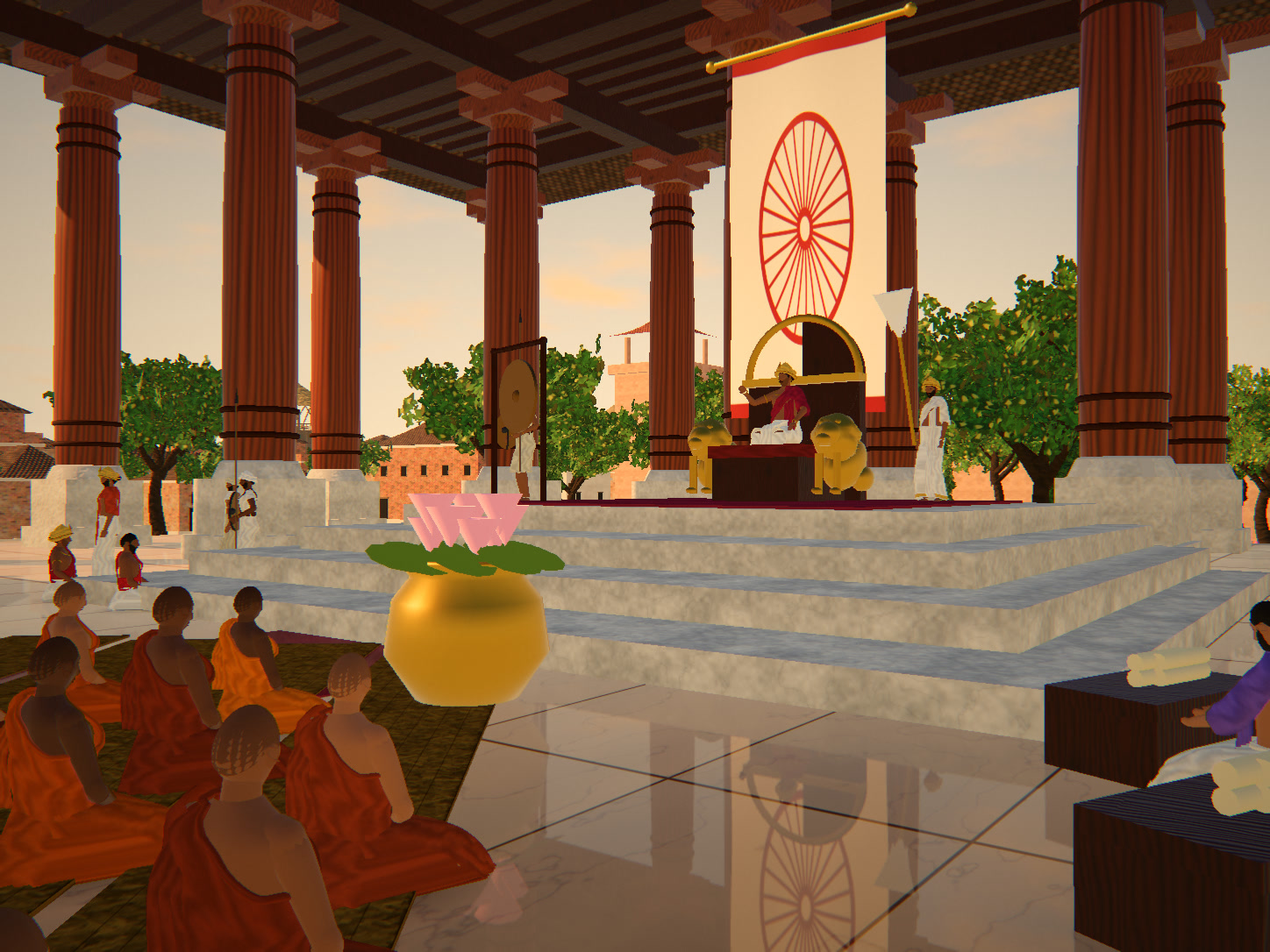
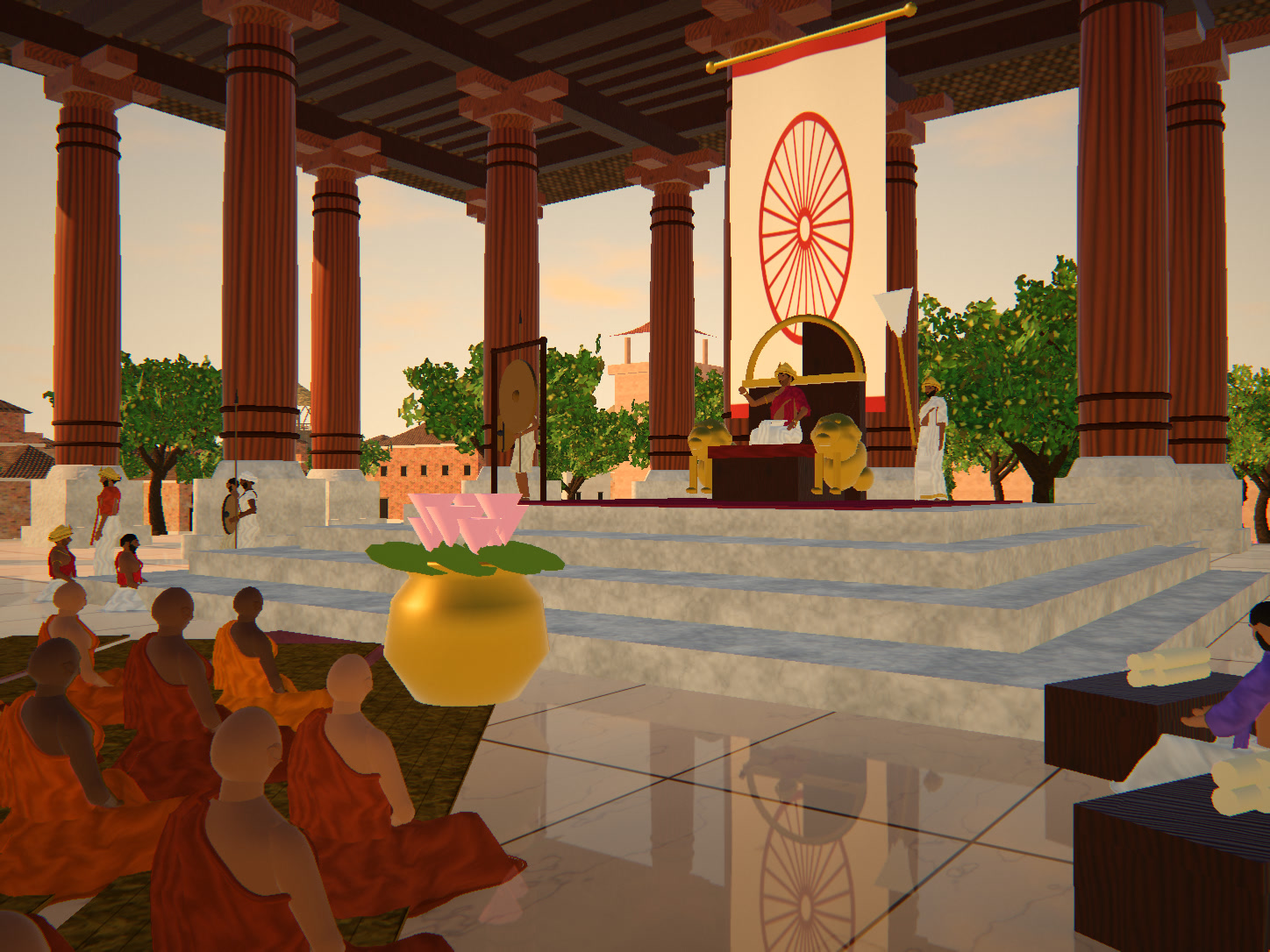
Round 15: new procedural people (anatomy, faces, hair, turbans, real drapery) integrated; full round rendered
Claude-Session: https://claude.ai/code/session_0162mTPdSB4sTmVTjs86gVkC

diff --git a/src/assets.js b/src/assets.js
@@ -159,7 +159,7 @@ function keyInterp(K, y) {
   return o;
 }
 // torso key rings relative to hip-joint height: [y, half width, front depth, back depth, z shift]
-const TK_M = [[-0.13, 0.095, 0.065, 0.08, -0.01], [-0.07, 0.146, 0.09, 0.11, -0.012], [0.02, 0.16, 0.094, 0.112, -0.006], [0.1, 0.15, 0.094, 0.095, 0], [0.18, 0.138, 0.098, 0.084, 0], [0.28, 0.148, 0.104, 0.09, 0], [0.37, 0.163, 0.114, 0.096, 0.004], [0.44, 0.174, 0.108, 0.1, 0], [0.49, 0.166, 0.084, 0.094, -0.01], [0.535, 0.115, 0.062, 0.072, -0.016], [0.575, 0.056, 0.05, 0.054, -0.012]];
+const TK_M = [[-0.13, 0.095, 0.065, 0.08, -0.01], [-0.07, 0.146, 0.09, 0.11, -0.012], [0.02, 0.16, 0.094, 0.112, -0.006], [0.1, 0.15, 0.094, 0.095, 0], [0.18, 0.138, 0.098, 0.084, 0], [0.28, 0.148, 0.104, 0.09, 0], [0.37, 0.163, 0.114, 0.096, 0.004], [0.44, 0.172, 0.108, 0.1, 0], [0.49, 0.158, 0.084, 0.094, -0.01], [0.535, 0.108, 0.062, 0.072, -0.016], [0.575, 0.056, 0.05, 0.054, -0.012]];
 const TK_F = [[-0.13, 0.1, 0.07, 0.088, -0.012], [-0.07, 0.158, 0.094, 0.122, -0.014], [0.02, 0.166, 0.094, 0.115, -0.008], [0.1, 0.142, 0.09, 0.09, 0], [0.19, 0.12, 0.085, 0.076, 0], [0.28, 0.132, 0.09, 0.08, 0], [0.37, 0.142, 0.098, 0.086, 0.004], [0.44, 0.15, 0.094, 0.088, 0], [0.49, 0.146, 0.078, 0.085, -0.01], [0.53, 0.104, 0.058, 0.068, -0.014], [0.565, 0.05, 0.045, 0.049, -0.012]];
 function torsoRel(B, th, y, off = 0) {
   const k = keyInterp(B.K, y); const a = k[0] * B.bw, bf = k[1] + B.belly * gss(y - 0.15, 0.08), bb = k[2], dz = k[3];
@@ -169,7 +169,7 @@ function torsoRel(B, th, y, off = 0) {
   const ax = Math.abs(x), front = Math.max(0, c), back = Math.max(0, -c);
   let push = 0;
   if (B.fem) push += B.bust * gss(ax - 0.068, 0.036) * gss(y - 0.36, 0.038) * front;
-  else push += 0.013 * gss(ax - 0.068, 0.045) * gss(y - 0.415, 0.032) * front * B.musc - 0.005 * gss(x, 0.012) * gss(y - 0.25, 0.12) * front;
+  else push += (0.017 * gss(ax - 0.066, 0.045) * gss(y - 0.415, 0.03) - 0.006 * gss(x, 0.01) * gss(y - 0.4, 0.06)) * front * B.musc - 0.005 * gss(x, 0.012) * gss(y - 0.25, 0.12) * front + 0.004 * gss(ax - 0.035, 0.02) * gss(y - 0.27, 0.05) * front * B.musc - 0.004 * gss(x, 0.006) * gss(y - 0.19, 0.008) * front;
   push += 0.008 * gss(ax - 0.075, 0.04) * gss(y - 0.43, 0.05) * back - 0.007 * gss(x, 0.016) * sstep(0.04, 0.16, y) * sstep(0.56, 0.44, y) * back;
   push += 0.006 * gss(y - 0.512, 0.012) * gss(ax - 0.06, 0.035) * front;
   const r = push + off; const nx = s / Math.max(a, 0.01), nz = c / Math.max(c > 0 ? bf : bb, 0.01); const nl = Math.hypot(nx, nz) || 1;
@@ -180,16 +180,16 @@ const HA = (u) => { const w = 2 * u - 1; return Math.PI * (0.45 * w + 0.55 * w *
 const HP = (v) => 0.001 + (Math.PI - 0.002) * (v + 0.1 * Math.sin(2 * Math.PI * v)); // polar, dense at the face
 function headPt(H, a, pol, off = 0) {
   const sp = Math.sin(pol), x = Math.sin(a) * sp, y = Math.cos(pol), z = Math.cos(a) * sp;
-  const ra = 0.074 * H.w, rb = 0.113, rc = z > 0 ? 0.092 : 0.102;
+  const ra = 0.077 * H.w, rb = 0.11, rc = z > 0 ? 0.094 : 0.104;
   let X = x * ra, Y = y * rb, Z = z * rc;
   const low = sstep(0.0, -0.105, Y);
-  X *= 1 - low * (0.3 - 0.12 * H.jaw);
+  X *= (1 - low * (0.26 - 0.1 * H.jaw)) * (1 + 0.05 * gss(Y - 0.035, 0.04));
   if (z < 0) Z *= 1 - 0.5 * sstep(-0.02, -0.1, Y);
   if (z > 0) { Z -= 0.03 * x * x * z; Z *= 1 - 0.12 * low; }
   if (Y > 0.02) Z -= 0.006 * sstep(0.02, 0.1, Y) * z; // forehead slopes back
   if (z > 0.2) {
     const fx = X, fy = Y, ax = Math.abs(fx); let dz = 0;
-    dz -= 0.0105 * gss(ax - 0.031, 0.013) * gss(fy - 0.01, 0.0105); // eye sockets
+    dz -= 0.012 * gss(ax - 0.031, 0.013) * gss(fy - 0.01, 0.0105); // eye sockets
     dz += 0.006 * gss(fy - 0.031, 0.008) * gss(fx, 0.035) * H.brow; // brow ridge
     const nt = sstep(0.028, -0.033, fy);
     let nA = 0; if (fy < 0.03 && fy > -0.05) nA = (0.003 + 0.021 * nt * nt) * (fy < -0.033 ? sstep(-0.047, -0.033, fy) : 1);
@@ -211,32 +211,33 @@ const BEARDTOP = [[0, 2.36], [0.22, 2.3], [0.42, 2.02], [0.8, 1.78], [1.2, 1.62]
 function buildHead(type, r, pose) {
   const hb = new AB(); const fem = type === 'woman';
   const H = { w: fem ? 0.95 : 0.98 + r() * 0.06, jaw: fem ? 0.2 : 0.5 + r() * 0.5, nose: 0.85 + r() * 0.35, chin: fem ? 0.8 : 0.9 + r() * 0.4, brow: fem ? 0.6 : 1 + r() * 0.3, lips: fem ? 1.2 : 1 };
-  hb.add(surf((u, v) => headPt(H, HA(u), HP(v)), 48, 36, { closeU: true, flip: true }), 'skin');
+  hb.add(surf((u, v) => headPt(H, HA(u), HP(v)), 40, 30, { closeU: true, flip: true }), 'skin');
   // eyes, lids, lips, ears
+  const brows = type !== 'monk' || r() < 0.5;
   for (const side of [-1, 1]) {
     const pe = new V3(...headPt(H, side * 0.37, 1.462)); const ne = new V3(side * 0.25, 0.08, 1).normalize();
-    hb.add(sph(0.0115, 10, 8), 'eye', pe.clone().addScaledVector(ne, -0.0085).toArray());
-    const lid = new THREE.SphereGeometry(0.0128, 10, 5, 0, Math.PI * 2, 0, Math.PI * 0.52); hb.add(lid, 'skin', pe.clone().addScaledVector(ne, -0.0082).toArray(), [0.35, side * 0.25, 0]);
-    const ep = new V3(...headPt(H, side * 1.66, 1.6, 0.002));
+    const eye = sph(0.0115, 10, 8); eye.scale(1.3, 0.75, 1); hb.add(eye, 'eye', pe.clone().addScaledVector(ne, -0.0078).toArray(), [0, side * 0.3, 0]);
+    if (brows) hb.add(tubeSurf([0.17, 0.32, 0.47, 0.6].map((a, i) => headPt(H, side * a, 1.25 + i * i * 0.012, 0.0015)), (v) => (fem ? 0.0022 : 0.003) * (1 - 0.5 * v), 5, 8), 'hair');
+    const ep = new V3(...headPt(H, side * 1.62, 1.6, 0.002));
     const ear = sph(1, 10, 8); ear.scale(0.009, 0.031, 0.02); hb.add(ear, 'skin', ep.toArray(), [0, side * 0.35, -side * 0.08]);
     const rim = new THREE.TorusGeometry(0.019, 0.0045, 5, 12, Math.PI * 1.3); rim.scale(0.7, 1.4, 1); hb.add(rim, 'skin', ep.clone().add(new V3(side * 0.006, 0.004, -0.003)).toArray(), [0, side * Math.PI / 2 + side * 0.35, Math.PI * 0.35]);
     if (fem || type === 'noble') hb.add(sph(0.009, 8, 6), 'gold', ep.clone().add(new V3(side * 0.006, -0.036, 0)).toArray());
   }
-  const ul = sph(1, 12, 6); ul.scale(0.019, 0.0045, 0.006); hb.add(ul, 'lips', headPt(H, 0, 2.08, -0.0015));
-  const ll = sph(1, 12, 6); ll.scale(0.017, 0.0055, 0.006); hb.add(ll, 'lips', headPt(H, 0, 2.2, -0.0018));
+  const ul = sph(1, 12, 6); ul.scale(0.0175, 0.0035, 0.005); hb.add(ul, 'lips', headPt(H, 0, 2.09, -0.003));
+  const ll = sph(1, 12, 6); ll.scale(0.016, 0.0045, 0.005); hb.add(ll, 'lips', headPt(H, 0, 2.2, -0.003));
   // hair
   const hairShell = (lineFn, th, key, nu = 40, nv = 14, extra = null) => hb.add(surf((u, v) => {
-    const a = HA(u), pm = lineFn(a); const pol = 0.001 + v * (pm - 0.001);
+    const a = (u - 0.5) * 2 * Math.PI, pm = lineFn(a); const pol = 0.001 + v * (pm - 0.001);
     let t = th(v, a); const p = headPt(H, a, pol, t); if (extra) extra(p, a, v); return p;
   }, nu, nv, { closeU: true, flip: true, uS: 2, vS: 2 }), key);
   const hl = (a) => pwl(HAIRLINE, Math.abs(a));
   const style = type === 'monk' ? 'shaved' : fem ? 'bun' : type === 'scribe' ? (r() < 0.7 ? 'topknot' : 'short') : type === 'noble' ? 'long' : ['short', 'short', 'topknot', 'long', 'curly'][Math.floor(r() * 5)];
-  if (style === 'shaved') hairShell(hl, () => 0.0012, 'stubble', 36, 12);
+  if (style === 'shaved') { if (r() < 0.4) hairShell(hl, () => 0.0022, 'stubble', 44, 12); }
   else {
     const thick = style === 'curly' ? 0.012 : style === 'short' ? 0.007 : 0.009;
     const crv = style === 'curly' ? r() * 10 : 0;
     hairShell((a) => hl(a) + (fem || style === 'long' ? 0.06 + 0.12 * sstep(1.2, 2.6, Math.abs(a)) : 0), (v, a) => thick * (0.3 + 0.7 * sstep(1, 0.55, v)) * (fem ? 1.2 : 1),
-      'hair', 40, 14, (p, a, v) => {
+      'hair', 36, 12, (p, a, v) => {
         if (crv) { const k = 1 + 0.06 * Math.sin(p[0] * 160 + crv) * Math.sin(p[1] * 150) * Math.sin(p[2] * 170); p[0] *= k; p[1] *= k; p[2] *= k; }
         if (fem || style === 'long') { const part = gss(p[0], 0.004) * sstep(-0.02, 0.06, p[2]) * 0.004; p[1] -= part; }
       });
@@ -261,12 +262,12 @@ function buildHead(type, r, pose) {
   if (turban) {
     const big = type === 'noble' ? 1.25 : type === 'soldier' ? 0.9 : 1 + r() * 0.2;
     const tl = (a) => mix(1.2, 1.62, sstep(0.3, 2.6, Math.abs(a)));
-    hb.add(surf((u, v) => { const a = HA(u); const pol = 0.001 + v * (tl(a) - 0.001); const p = headPt(H, a, pol, 0.018 + 0.02 * big * (1 - v)); p[1] += 0.028 * big * (1 - v) * (1 - v); return p; }, 36, 12, { closeU: true, flip: true, uS: 3, vS: 2 }), 'accent');
-    const nb = type === 'soldier' ? 3 : 4 + (r() < 0.5 ? 1 : 0);
+    hb.add(surf((u, v) => { const a = (u - 0.5) * 2 * Math.PI; const pol = 0.001 + v * (tl(a) - 0.001); const p = headPt(H, a, pol, 0.018 + 0.02 * big * (1 - v)); p[1] += 0.028 * big * (1 - v) * (1 - v); return p; }, 36, 12, { closeU: true, flip: true, uS: 3, vS: 2 }), 'accent');
+    const nb = type === 'soldier' ? 3 : 4;
     for (let k = 0; k < nb; k++) {
       const sgn = k % 2 ? 1 : -1, tilt = (0.12 + r() * 0.08) * sgn, base = k / nb;
       const pts = []; for (let i = 0; i < 24; i++) { const a = -Math.PI + i / 24 * Math.PI * 2; const pol = tl(a) - 0.06 - base * mix(0.85, 0.55, sstep(0, 2.6, Math.abs(a))) + tilt * Math.sin(a); const p = headPt(H, a, Math.max(0.25, pol), 0.022 + 0.01 * big); p[1] += 0.01 * base * big; pts.push(p); }
-      hb.add(tubeSurf(pts, (v, d, u) => 0.016 + 0.004 * Math.sin(v * 37 + k), 8, 40, { closed: true, uS: 1, vS: 6 }), 'accent');
+      hb.add(tubeSurf(pts, (v, d, u) => 0.016 + 0.004 * Math.sin(v * 37 + k), 6, 28, { closed: true, uS: 1, vS: 6 }), 'accent');
     }
     if (type === 'noble') {
       const pts = []; for (let i = 0; i < 24; i++) { const a = -Math.PI + i / 24 * Math.PI * 2; pts.push(headPt(H, a, tl(a) - 0.05, 0.05)); }
@@ -329,7 +330,7 @@ export function human({ type = 'man', pose = 'stand', seed = 1, h = 1.7 } = {}) 
   for (const L of legs) {
     const H0 = toV(L.hip), K = toV(L.knee), A = toV(L.ankle);
     const pts = [H0.clone().add(new V3(-L.side * 0.02, 0.07, -0.01)), H0, H0.clone().lerp(K, 0.82), K, K.clone().lerp(A, 0.18), A];
-    if (!sit) b.add(tubeSurf(pts, (v) => legR(v), 12, 22), 'skin');
+    if (!sit) b.add(tubeSurf(pts, (v) => legR(v), 10, 20), 'skin');
     else b.add(tubeSurf([K.clone().lerp(A, 0.3), A], () => 0.042, 8, 4), 'skin');
     // foot
     let F, U = [0, 1, 0], o;
@@ -342,11 +343,11 @@ export function human({ type = 'man', pose = 'stand', seed = 1, h = 1.7 } = {}) 
   }
   // ---------------- torso
   const TP = (th, y, off = 0) => { const p = torsoRel(B, th, y, off); p[1] += hipJ; return p; };
-  b.add(surf((u, v) => TP((u - 0.5) * 2 * Math.PI, mix(-0.13, 0.575, v)), 32, 26, { closeU: true }), 'skin');
+  b.add(surf((u, v) => TP((u - 0.5) * 2 * Math.PI, mix(-0.13, 0.575, v)), 28, 22, { closeU: true }), 'skin');
   // ---------------- arms
-  const shY = hipJ + 0.485, shX = torsoRel(B, Math.PI / 2, 0.47)[0] - 0.032;
+  const shY = hipJ + 0.475, shX = torsoRel(B, Math.PI / 2, 0.45)[0] - 0.03;
   const armL1 = fem ? 0.27 : 0.285, armL2 = fem ? 0.24 : 0.255;
-  const holdShawl = !seated && type !== 'soldier' && r() < 0.18 ? (r() < 0.5 ? -1 : 1) : 0;
+  const longSk = type === 'monk' || fem || type === 'noble';
   const armPose = (side) => {
     const S = [side * shX, shY, -0.012];
     if (throne && side === -1) return { W: [-0.36, shY + 0.02, 0.36], pole: [-1, -1, -0.3], pn: [0.2, 0.3, 1], fd: null };
@@ -356,9 +357,8 @@ export function human({ type = 'man', pose = 'stand', seed = 1, h = 1.7 } = {}) 
     if (sit) return { W: [side * 0.3, hipJ + 0.12, 0.25], pole: [side, -0.2, -1], pn: [0, -1, 0] };
     if (type === 'soldier' && side === 1) return { W: [0.25, shY - 0.33, 0.16], pole: [1, -0.5, -1], pn: [-1, 0, 0] };
     if (type === 'soldier') return { W: [-0.27, shY - 0.36, 0.12], pole: [-1, -0.3, -1], pn: [-1, 0, 0] };
-    if (holdShawl === side) return { W: [side * 0.05, shY - 0.2, 0.15], pole: [side, -1, -0.2], pn: [0, 0, -1] };
     const a = pose === 'walk' ? -side * sw * 1.0 : (r() - 0.5) * 0.12;
-    const ln = 0.52; return { W: [side * (shX + 0.05), shY - ln * Math.cos(a), ln * Math.sin(a) + 0.05], pole: [side * 0.4, 0, -1], pn: [-side, 0, 0] };
+    const ln = 0.52; return { W: [side * (shX + (fem ? 0.12 : longSk ? 0.09 : 0.06)), shY - ln * Math.cos(a), ln * Math.sin(a) + (longSk ? 0.08 : 0.05)], pole: [side * 0.4, 0, -1], pn: [-side, 0, 0] };
   };
   const arms = [];
   for (const side of [-1, 1]) {
@@ -366,9 +366,9 @@ export function human({ type = 'man', pose = 'stand', seed = 1, h = 1.7 } = {}) 
     const [E, W] = ik(S, ap.W, armL1, armL2, ap.pole);
     arms.push({ side, S, E, W });
     const k = fem ? 0.84 : (type === 'soldier' ? 1.08 : 1);
-    const pts = [S.clone().add(new V3(-side * 0.035, 0.012, 0)), S, S.clone().lerp(E, 0.85), E, E.clone().lerp(W, 0.15), W];
-    b.add(tubeSurf(pts, (v) => k * pwl([[0, 0.05], [0.12, 0.054], [0.3, 0.046], [0.5, 0.036], [0.6, 0.04], [0.82, 0.03], [1, 0.025]], v), 12, 22), 'skin');
-    const dl = sph(1, 12, 8); dl.scale(0.05 * k, 0.058 * k, 0.052 * k); b.add(dl, 'skin', S.clone().add(new V3(side * 0.012, -0.005, 0)).toArray());
+    const ud = E.clone().sub(S).normalize(); const pts = [S.clone().addScaledVector(ud, -0.035).add(new V3(-side * 0.012, 0, 0)), S, S.clone().lerp(E, 0.78), E, E.clone().lerp(W, 0.22), W];
+    b.add(sph(0.03 * k, 10, 8), 'skin', pts[0].clone().add(new V3(-side * 0.012, -0.004, 0)).toArray());
+    b.add(tubeSurf(pts, (v) => k * pwl([[0, 0.032], [0.05, 0.048], [0.1, 0.054], [0.17, 0.053], [0.32, 0.045], [0.5, 0.036], [0.6, 0.04], [0.82, 0.03], [1, 0.025]], v), 11, 22), 'skin');
     const fd = W.clone().sub(E).normalize();
     const hm = basisM(W, fd, toV(ap.pn)); const hand = buildHand(side, fem);
     for (const g of hand.parts.skin) b.addM(g, 'skin', hm);
@@ -376,13 +376,13 @@ export function human({ type = 'man', pose = 'stand', seed = 1, h = 1.7 } = {}) 
     if (type === 'noble' || (fem && r() < 0.5)) { const d2 = E.clone().sub(S).normalize(); b.addM(new THREE.TorusGeometry(0.047 * k, 0.008, 6, 16), 'gold', new THREE.Matrix4().compose(S.clone().lerp(E, 0.45), new THREE.Quaternion().setFromUnitVectors(new V3(0, 0, 1), d2), new V3(1, 1, 1))); }
     if (type === 'soldier' && side === 1) { b.add(cyl(0.012, 0.012, 2.3, 6), 'pole', [W.x, W.y + 0.55, W.z + 0.03]); b.add(new THREE.ConeGeometry(0.028, 0.24, 6), 'iron', [W.x, W.y + 1.82, W.z + 0.03]); }
     if (type === 'soldier' && side === -1) {
-      const shd = lathe([[0, 0.05], [0.08, 0.045], [0.2, 0.025], [0.29, 0.0], [0.3, -0.01], [0, -0.01]], 28); const c = W.clone().add(new V3(-0.07, 0.1, 0.04));
+      const shd = lathe([[0, 0.05], [0.08, 0.045], [0.2, 0.025], [0.29, 0.0], [0.3, -0.01], [0, -0.01]], 28); const c = W.clone().add(new V3(-0.03, 0.06, 0.13));
       b.add(shd, 'prop', c.toArray(), [Math.PI / 2, 0, -0.35]); b.add(new THREE.TorusGeometry(0.295, 0.016, 6, 28), 'iron', c.toArray(), [0, -0.35, 0]); b.add(sph(0.05, 10, 6), 'iron', c.clone().add(new V3(0.02, 0, 0.05)).toArray());
     }
   }
   // ---------------- neck & head
   const HC = new V3(0, hipJ + 0.68, 0.016 + (sit && type === 'scribe' ? 0.04 : 0));
-  b.add(tubeSurf([[0, hipJ + 0.48, -0.016], [0, hipJ + 0.57, -0.006], [0, HC.y - 0.03, HC.z - 0.012]], (v) => mix(0.056, 0.047, v) * (fem ? 0.9 : 1), 12, 6), 'skin');
+  b.add(tubeSurf([[0, hipJ + 0.44, -0.018], [0, hipJ + 0.56, -0.006], [0, HC.y - 0.03, HC.z - 0.012]], (v) => pwl([[0, 0.075], [0.3, 0.064], [0.45, 0.056], [1, 0.047]], v) * (fem ? 0.9 : 1), 14, 10), 'skin');
   const pitch = sit && type === 'scribe' ? 0.38 : type === 'monk' && sit ? 0.12 : (r() - 0.5) * 0.14, yaw = throne ? -0.25 : (r() - 0.5) * 0.4;
   b.merge(buildHead(type, r, pose), HC.toArray(), [pitch, yaw, 0]);
   // ---------------- garments
@@ -404,19 +404,19 @@ export function human({ type = 'man', pose = 'stand', seed = 1, h = 1.7 } = {}) 
     const tp = torsoRel(B, th, Math.max(yR, -0.13), off);
     let best = -1e9, hx = 0, hz = 0;
     for (const L of legs) { const c = legAt(L, yA); const pr = c[0] * dx + c[1] * dz + c[2]; if (pr > best) { best = pr; hx = c[0] + dx * (c[2] + off); hz = c[1] + dz * (c[2] + off); } }
-    const w = sstep(-0.02, -0.15, yR);
+    let w = sstep(-0.02, -0.15, yR); const prT = tp[0] * dx + tp[2] * dz, prH = hx * dx + hz * dz; if (prH > prT) w = Math.max(w, clamp01((prH - prT) / 0.015)); else if (yR > -0.13) w = Math.min(w, 1 - clamp01((prT - prH) / 0.015));
     return [mix(tp[0], hx, w), yA, mix(tp[2], hz, w)];
   };
-  const skirt = (key, o, nu = 64, nv = 26) => b.add(surf((u, v) => skirtPt((u - 0.5) * 2 * Math.PI, v, o), nu, nv, { closeU: true, flip: true, uS: 3, vS: 3 }), key);
+  const skirt = (key, o, nu = 56, nv = 22) => b.add(surf((u, v) => skirtPt((u - 0.5) * 2 * Math.PI, v, o), nu, nv, { closeU: true, flip: true, uS: 3, vS: 3 }), key);
   const border = (key, o, frac = 0.07) => b.add(surf((u, v) => { const p = skirtPt((u - 0.5) * 2 * Math.PI, 1 - frac + frac * v, { ...o, off: o.off + 0.0025 }); return p; }, 64, 2, { closeU: true, flip: true, uS: 6, vS: 0.3 }), key);
-  const hemRoll = (key, o, rad = 0.007) => { const pts = []; for (let i = 0; i < 48; i++) pts.push(skirtPt(-Math.PI + i / 48 * Math.PI * 2, 1, o)); b.add(tubeSurf(pts, () => rad, 5, 64, { closed: true }), key); };
+  const hemRoll = (key, o, rad = 0.007) => { const pts = []; for (let i = 0; i < 40; i++) pts.push(skirtPt(-Math.PI + i / 40 * Math.PI * 2, 1, o)); b.add(tubeSurf(pts, () => rad, 5, 48, { closed: true }), key); };
   const waistRoll = (key, y, off, rad = 0.016) => { const pts = []; for (let i = 0; i < 24; i++) pts.push(TP(-Math.PI + i / 24 * Math.PI * 2, y, off)); b.add(tubeSurf(pts, (v) => rad * (1 + 0.25 * Math.sin(v * 31)), 6, 40, { closed: true }), key); };
-  const pleatsFront = (key, o, w0 = 0.07, w1 = 0.2, n = 5) => { const pts = []; for (let i = 0; i <= 5; i++) { const p = skirtPt(0, i / 5, o); p[2] += 0.014; pts.push(p); } b.add(panel(pts, (v) => mix(w0, w1, v), { pleats: n, depth: 0.011, out: [0, 0, 1] }), key); };
+  const pleatsFront = (key, o, w0 = 0.07, w1 = 0.2, n = 5, th = 0, dep = 0.011) => { const pts = []; for (let i = 0; i <= 5; i++) { const p = skirtPt(th, i / 5, o); p[0] += Math.sin(th) * 0.01; p[2] += Math.cos(th) * 0.01; pts.push(p); } b.add(panel(pts, (v) => mix(w0, w1, v), { pleats: n, depth: dep, out: [Math.sin(th), 0, Math.cos(th)] }), key); };
   // shell on the torso between yLo(th) and yHi(th) (relative y)
-  const shell = (key, yLo, yHi, off, A, { th0 = -Math.PI, th1 = Math.PI, nu = 56, nv = 18, diag = 0.6, edge = 0 } = {}) => {
+  const shell = (key, yLo, yHi, off, A, { th0 = -Math.PI, th1 = Math.PI, nu = 48, nv = 16, diag = 0.6, edge = 0 } = {}) => {
     const fn = (u, v) => { const th = mix(th0, th1, u); const y0 = yLo(th), y1 = Math.min(0.57, yHi(th)); const y = mix(y0, y1, v); const x = Math.sin(th) * 0.17; const q = y - diag * x; const f = A * Math.sin(q * 55 + ph + 2 * Math.sin(th * 3)) * (0.5 + 0.5 * Math.sin(th * 5 + ph2)); return TP(th, y, off + A + f); };
     b.add(surf(fn, nu, nv, { closeU: th1 - th0 > 6, uS: 3, vS: 1.5 }), key);
-    if (edge) { const closed = th1 - th0 > 6; const pts = []; const n = 40; for (let i = 0; i < (closed ? n : n + 1); i++) pts.push(fn(i / n, 1)); b.add(tubeSurf(pts, () => edge, 5, 60, { closed }), key); if (edge > 0 && !closed) { } }
+    if (edge) { const closed = th1 - th0 > 6; const pts = []; const n = 40; for (let i = 0; i < (closed ? n : n + 1); i++) pts.push(fn(i / n, 1)); b.add(tubeSurf(pts, () => edge, 5, 48, { closed }), key); if (edge > 0 && !closed) { } }
     return fn;
   };
   const sleeve = (key, arm, reach = 0.55, rad = 0.066, droop = 0.07) => { const { S, E, W } = arm; b.add(tubeSurf([S.clone().add(new V3(-arm.side * 0.04, 0.045, 0)), S.clone().add(new V3(arm.side * 0.01, 0.01, 0)), S.clone().lerp(E, 0.6), E, E.clone().lerp(W, reach)], (v, d, u) => rad + 0.012 * v + droop * v * Math.max(0, -d.y) ** 2 + 0.005 * Math.sin(u * 31 + v * 9), 14, 18), key); };
@@ -430,12 +430,12 @@ export function human({ type = 'man', pose = 'stand', seed = 1, h = 1.7 } = {}) 
     if (!seated) {
       const outO = { top: 0.12, hem: 0.3 + r() * 0.08, off: 0.03, A: 0.014, flare: 0.06, hemWave: 0.03, hemBack: -0.04 };
       skirt('garment', lowO, 48, 18); skirt('garment', outO); hemRoll('garment', outO, 0.008);
-      pleatsFront('garment', outO, 0.08, 0.16, 3);
+      pleatsFront('garment', outO, 0.06, 0.12, 3, 0.2, 0.009);
     }
     shell('garment', () => 0.06, topFn, 0.018, 0.006, { edge: 0.011 });
-    sleeve('garment', arms[1], 0.62, 0.068, 0.09);
+    sleeve('garment', arms[1], 0.62, 0.064, seated ? 0.04 : 0.07);
     // fold of cloth hanging from the left shoulder down the back
-    const a1 = arms[1].S; b.add(panel([[a1.x - 0.04, a1.y + 0.04, -0.05], [a1.x - 0.02, a1.y - 0.1, -0.13], [a1.x - 0.04, hipJ + 0.15, -0.135]], (v) => mix(0.08, 0.16, v), { pleats: 3, depth: 0.012, side: [1, 0, 0], out: [0, 0, -1] }), 'garment');
+    b.add(panel([TP(Math.PI - 0.75, 0.53, 0.035), TP(Math.PI - 0.6, 0.4, 0.045), TP(Math.PI - 0.5, 0.15, 0.05)], (v) => mix(0.08, 0.16, v), { pleats: 3, depth: 0.012, side: [1, 0, 0], out: [0, 0, -1] }), 'garment');
   } else if (fem) {
     const sk = { top: 0.15, hem: 0.035, off: 0.014, A: 0.01, flare: 0.07, hemWave: 0.008 };
     if (!seated) { skirt('garment', sk); border('accent', sk, 0.06); pleatsFront('garment', sk, 0.06, 0.2, 6); }
@@ -444,14 +444,15 @@ export function human({ type = 'man', pose = 'stand', seed = 1, h = 1.7 } = {}) 
     shell('shawl', () => 0.29, (th) => 0.53 - 0.06 * Math.max(0, Math.cos(th)), 0.008, 0.002, { nv: 10, edge: 0.005 });
     for (const a of arms) b.add(tubeSurf([a.S.clone().add(new V3(-a.side * 0.03, 0.02, 0)), a.S, a.S.clone().lerp(a.E, 0.35)], () => 0.058, 10, 6), 'shawl');
     // pallu: band from the right hip across the chest over the left shoulder, then hanging down the back
-    const lo = diagTop(0.1, 0.42), hi = diagTop(0.26, 0.62);
+    const lo = diagTop(0.17, 0.42), hi = diagTop(0.31, 0.62);
     shell('garment', lo, hi, 0.022, 0.006, { edge: 0.006, diag: 1.3 });
+    sleeve('garment', arms[1], 0.04, 0.072, 0.0);
     const a1 = arms[1].S;
     b.add(panel([[a1.x - 0.05, a1.y + 0.05, -0.04], [a1.x - 0.05, a1.y - 0.08, -0.12], [a1.x - 0.07, hipJ, -0.15], [a1.x - 0.08, hipJ - 0.28, -0.13]], (v) => mix(0.12, 0.3, v), { pleats: 4, depth: 0.014, side: [1, 0, 0.3], out: [0, 0, -1] }), 'garment');
   } else if (type === 'soldier') {
     const tu = { top: 0.2, hem: 0.47 + r() * 0.05, off: 0.02, A: 0.01, flare: 0.05, hemWave: 0.015 };
     if (!seated) { skirt('garment', tu, 56, 14); hemRoll('garment', tu, 0.007); }
-    shell('garment', () => 0.16, (th) => 0.56 - 0.05 * Math.max(0, Math.cos(th)), 0.012, 0.003, { nv: 14 });
+    shell('garment', () => 0.16, (th) => 0.545 - 0.05 * Math.max(0, Math.cos(th)), 0.012, 0.003, { nv: 14, edge: 0.008 });
     for (const a of arms) b.add(tubeSurf([a.S.clone().add(new V3(-a.side * 0.03, 0.03, 0)), a.S, a.S.clone().lerp(a.E, 0.45)], (v) => 0.064 + 0.008 * v, 10, 6), 'garment');
     // cross belts + waist belt (leather)
     for (const sg of [-1, 1]) shell('shawl', (th) => 0.34 + sg * 0.22 * Math.sin(th) * Math.sign(Math.cos(th) || 1) - 0.022, (th) => 0.34 + sg * 0.22 * Math.sin(th) * Math.sign(Math.cos(th) || 1) + 0.022, 0.02, 0, { nv: 2, nu: 48 });
@@ -464,17 +465,17 @@ export function human({ type = 'man', pose = 'stand', seed = 1, h = 1.7 } = {}) 
     if (!seated) {
       skirt('garment', dh); hemRoll('garment', dh, 0.007);
       if (type === 'noble') border('accent', dh, 0.05);
-      pleatsFront('garment', dh, 0.06, 0.15, 4);
+      pleatsFront('garment', dh, 0.045, 0.1, 3, -0.25 + r() * 0.15, 0.008);
     }
     waistRoll('garment', 0.15, 0.016, 0.014);
     // uttariya
     const st = type === 'noble' || type === 'scribe' ? 'sash' : ['sash', 'sash', 'both', 'none', 'none'][Math.floor(r() * 5)];
     if (st === 'sash') {
-      const lo = diagTop(0.12, 0.42), hi = diagTop(0.27, 0.62);
+      const lo = diagTop(0.19, 0.42), hi = diagTop(0.33, 0.62);
       shell('shawl', lo, hi, 0.02, 0.007, { edge: 0.007, diag: 1.3 });
       sleeve('shawl', arms[1], 0.05, 0.064, 0.0);
       const a1 = arms[1].S;
-      b.add(panel([[a1.x - 0.05, a1.y + 0.045, 0.03], [a1.x - 0.04, a1.y - 0.1, 0.11], [a1.x - 0.03, hipJ + 0.16, 0.13], [a1.x - 0.03, hipJ - (seated ? 0.05 : 0.25), 0.15]], (v) => mix(0.1, 0.16, v), { pleats: 3, depth: 0.01, side: [1, 0, 0], out: [0, 0, 1] }), 'shawl');
+      b.add(panel([[a1.x - 0.05, a1.y + 0.045, 0.03], [a1.x - 0.04, a1.y - 0.1, 0.11], [a1.x - 0.03, hipJ + 0.16, 0.14], [a1.x - 0.02, hipJ - (seated ? 0.05 : 0.25), seated ? 0.17 : 0.215]], (v) => mix(0.1, 0.16, v), { pleats: 3, depth: 0.01, side: [1, 0, 0], out: [0, 0, 1] }), 'shawl');
     } else if (st === 'both') {
       shell('shawl', (th) => mix(0.48, 0.3, Math.max(0, -Math.cos(th))) - 0.08 * Math.abs(Math.sin(th)), () => 0.6, 0.02, 0.006, { edge: 0.007, diag: 0 });
       for (const a of arms) {
@@ -485,31 +486,48 @@ export function human({ type = 'man', pose = 'stand', seed = 1, h = 1.7 } = {}) 
   }
   // seated lower garments
   if (sit) {
-    const discs = [[0, -0.02, 0.17]]; for (const L of legs) discs.push([L.knee[0], L.knee[2], 0.075]); if (type === 'monk') for (const L of legs) discs.push([L.ankle[0] * 0.8, L.ankle[2] + 0.02, 0.07]);
-    const kneeH = Math.max(legs[0].knee[1], legs[1].knee[1]) + 0.06;
-    const lapPt = (th, v) => {
-      const dx = Math.sin(th), dz = Math.cos(th); let best = -1e9, gx = 0, gz = 0; const off = 0.025;
-      for (const c of discs) { const pr = c[0] * dx + c[1] * dz + c[2]; if (pr > best) { best = pr; gx = c[0] + dx * (c[2] + off); gz = c[1] + dz * (c[2] + off); } }
-      const tp = TP(th, 0.14, 0.02); const fr = clamp01(dz * 1.3 + 0.4); const hT = mix(0.1, kneeH, fr);
-      const c1 = [mix(tp[0], gx, 0.8), hT + 0.03, mix(tp[2], gz, 0.8)];
-      const A = 0.018 * v * v; const fold = A * Math.sin(nf * 1.4 * th + ph) + 0.01 * v * Math.sin(5 * th + ph2);
-      const a = (1 - v) ** 2, bb = 2 * v * (1 - v), c = v * v;
-      return [a * tp[0] + bb * c1[0] + c * gx + dx * fold, a * tp[1] + bb * c1[1] + c * 0.012, a * tp[2] + bb * c1[2] + c * gz + dz * fold];
+    // cloth tented over the crossed legs and pooled on the floor (height field in polar coords around the waist)
+    const caps = []; for (const L of legs) { caps.push([L.hip, L.knee, 0.085]); caps.push([L.knee, L.ankle, 0.06]); }
+    const tent = (x, z) => {
+      let hh = 0.012;
+      for (const [A, Bp, rr] of caps) {
+        const ex = Bp[0] - A[0], ez = Bp[2] - A[2]; const t = clamp01(((x - A[0]) * ex + (z - A[2]) * ez) / (ex * ex + ez * ez));
+        const py = mix(A[1], Bp[1], t), dist = Math.hypot(x - A[0] - ex * t, z - A[2] - ez * t);
+        hh = Math.max(hh, py + rr + 0.025 - 1.6 * Math.max(0, dist - rr * 0.5));
+      }
+      return hh;
     };
-    b.add(surf((u, v) => lapPt((u - 0.5) * 2 * Math.PI, v), 64, 16, { closeU: true, flip: true, uS: 3, vS: 2 }), 'garment');
-    const pts = []; for (let i = 0; i < 48; i++) pts.push(lapPt(-Math.PI + i / 48 * Math.PI * 2, 1)); b.add(tubeSurf(pts, () => 0.01, 5, 64, { closed: true }), 'garment');
+    const lapCache = new Map();
+    const lapPt = (th, v) => {
+      const dx = Math.sin(th), dz = Math.cos(th); const s0 = TP(th, 0.13, 0.02);
+      let R = lapCache.get(th);
+      if (R === undefined) { R = 0.05; while (R < 0.8 && Math.max(tent(s0[0] + dx * R, s0[2] + dz * R), s0[1] - 1.5 * R) > 0.014) R += 0.01; R += 0.03 + 0.02 * Math.sin(7 * th + ph); lapCache.set(th, R); }
+      const rho = R * v; const x = s0[0] + dx * rho, z = s0[2] + dz * rho;
+      let y = Math.max(tent(x, z), s0[1] - 1.5 * rho);
+      const wr = 0.008 * Math.sin(nf * 1.3 * th + ph + rho * 9) * sstep(0.1, 0.5, v);
+      if (v === 1) y = 0.006;
+      return [x + dx * wr, y + Math.abs(wr) * 0.6, z + dz * wr];
+    };
+    b.add(surf((u, v) => lapPt((u - 0.5) * 2 * Math.PI, v), 64, 20, { closeU: true, uS: 3, vS: 2 }), 'garment');
+    const pts = []; for (let i = 0; i < 48; i++) pts.push(lapPt(-Math.PI + i / 48 * Math.PI * 2, 1)); b.add(tubeSurf(pts, () => 0.008, 5, 64, { closed: true }), 'garment');
     if (type !== 'monk') b.add(surf((u, v) => TP((u - 0.5) * 2 * Math.PI, mix(0.16, -0.12, v), 0.022), 40, 6, { closeU: true }), 'garment');
   }
   if (throne) {
     b.add(surf((u, v) => TP((u - 0.5) * 2 * Math.PI, mix(0.16, -0.13, v), 0.02 + 0.03 * v), 48, 8, { closeU: true }), 'garment');
-    for (const L of legs) {
-      const H0 = toV(L.hip), K = toV(L.knee), A = toV(L.ankle);
-      b.add(tubeSurf([H0.clone().add(new V3(0, 0.02, -0.06)), H0, K.clone().add(new V3(0, 0.0, 0.03))], (v, d, u) => 0.105 - 0.015 * v + 0.006 * Math.sin(u * 37 + v * 5) + 0.02 * Math.max(0, -d.y), 16, 10), 'garment');
-      b.add(tubeSurf([K.clone().add(new V3(0, 0.02, 0.0)), K.clone().lerp(A, 0.5), A.clone().add(new V3(0, 0.0, 0))], (v, d, u) => 0.075 + 0.025 * v + 0.006 * Math.sin(u * 41 + v * 7) + 0.015 * v * Math.max(0, -d.z), 16, 10), 'garment');
-      b.add(tubeSurf([A.clone().add(new V3(0, 0.01, 0)), A.clone().add(new V3(0, -0.01, 0.0))], () => 0.1, 16, 1), 'accent');
-    }
+    const legPt = (L, v) => (v < 0.5 ? toV(L.hip).lerp(toV(L.knee), v * 2) : toV(L.knee).lerp(toV(L.ankle).add(new V3(0, 0.03, 0)), (v - 0.5) * 2));
+    const X = new V3(1, 0, 0);
+    const loft = (u, v) => {
+      const p0 = legPt(legs[0], v), p1 = legPt(legs[1], v); const c = p0.clone().add(p1).multiplyScalar(0.5); const hx = Math.abs(p1.x - p0.x) / 2;
+      const T = legPt(legs[0], Math.min(1, v + 0.09)).sub(legPt(legs[0], Math.max(0, v - 0.09))).normalize();
+      const Yp = new V3().crossVectors(T, X).normalize(); const th = (u - 0.5) * 2 * Math.PI, sx = Math.sin(th);
+      const d = X.clone().multiplyScalar(sx).addScaledVector(Yp, Math.cos(th));
+      const rr = legR(v) + 0.026 + 0.03 * v + 0.006 * Math.sin(th * 9 + v * 6 + ph) * (0.4 + v) + 0.03 * Math.max(0, -d.y) * (v < 0.5 ? 1 : 0);
+      return c.addScaledVector(X, Math.sign(sx) * hx).addScaledVector(d, rr).toArray();
+    };
+    b.add(surf(loft, 40, 24, { closeU: true, uS: 3, vS: 3 }), 'garment');
+    { const pts = []; for (let i = 0; i < 32; i++) pts.push(loft(i / 32, 1)); b.add(tubeSurf(pts, () => 0.008, 5, 48, { closed: true }), 'accent'); }
     const kz = legs[0].knee[2];
-    b.add(panel([[0, hipJ + 0.16, 0.12], [0, hipJ + 0.11, 0.28], [0, hipJ + 0.06, kz + 0.03], [0, hipJ - 0.2, kz + 0.07], [0, 0.07, kz + 0.07]], (v) => mix(0.1, 0.22, v), { pleats: 5, depth: 0.012, out: [0, 1, 1] }), 'garment');
+    b.add(panel([[0, hipJ + 0.17, 0.12], [0, hipJ + 0.145, 0.28], [0, hipJ + 0.125, kz + 0.06], [0, hipJ - 0.15, kz + 0.12], [0, 0.07, kz + 0.12]], (v) => mix(0.1, 0.22, v), { pleats: 5, depth: 0.012, out: [0, 1, 1] }), 'garment');
   }
   if (type === 'noble' || fem) { const pts = []; for (let i = 0; i < 20; i++) pts.push(TP(-Math.PI + i / 20 * Math.PI * 2, 0.535 - 0.07 * Math.max(0, Math.cos(-Math.PI + i / 20 * Math.PI * 2)) ** 2, 0.008)); b.add(tubeSurf(pts, () => 0.007, 6, 30, { closed: true }), 'gold'); }
   // contact shadow decal
